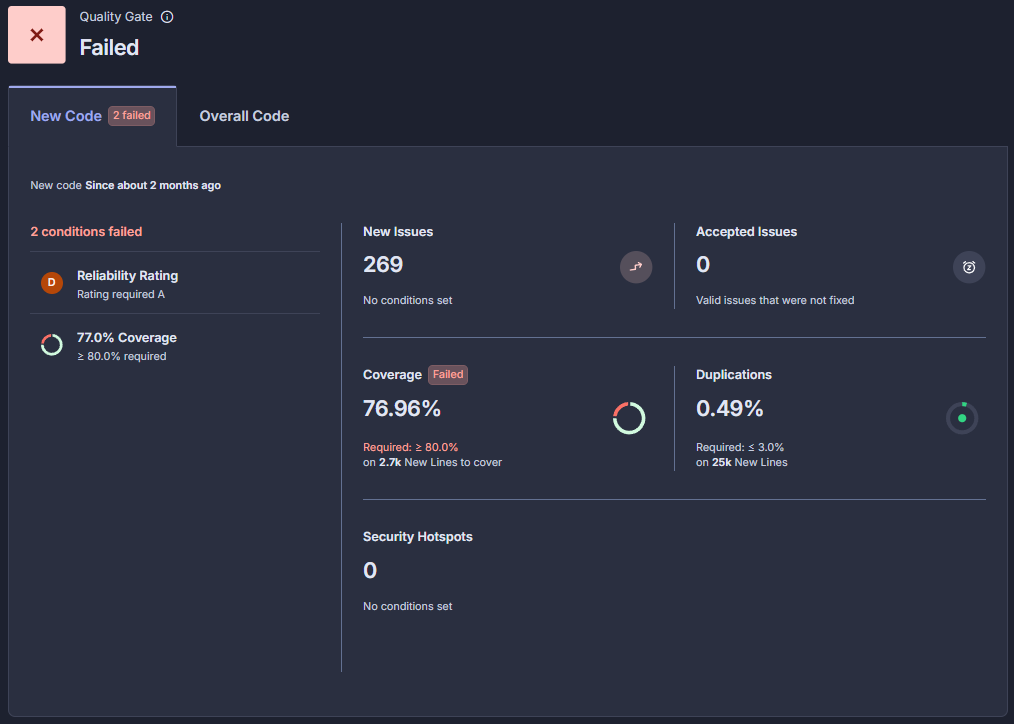
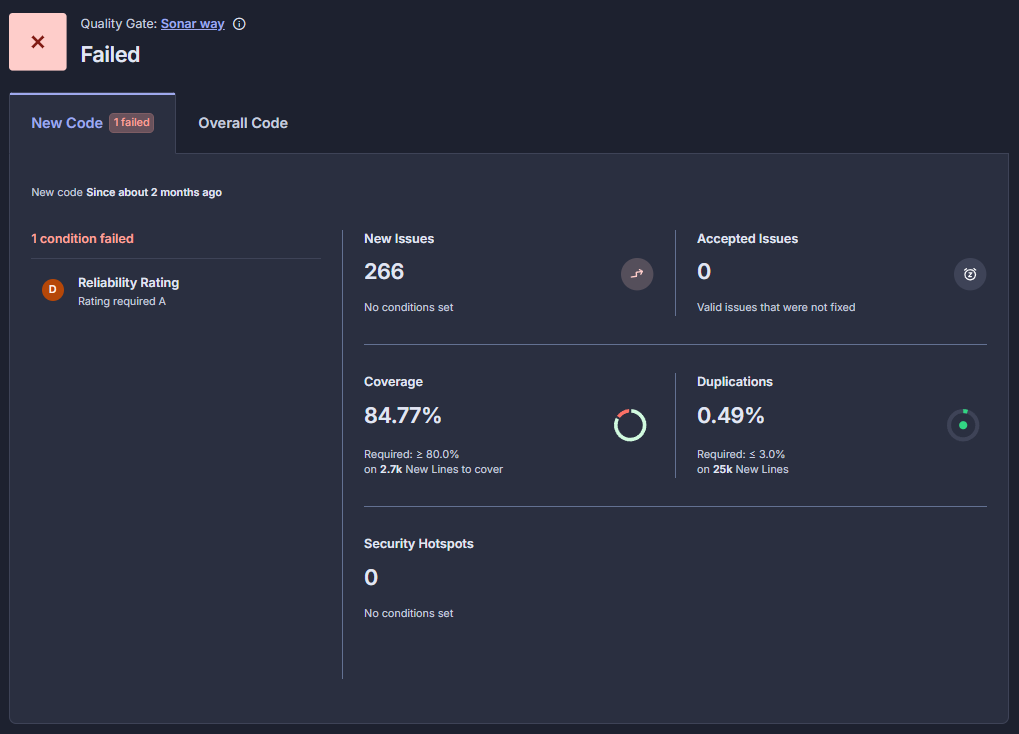
Add QR screenshots and update docs & Sonar stats
Add new diagram and QR menu images, and update documentation to include QR scan/show sections. Update SonarQube screenshots and bump reported new-code coverage to 84.77%. Clarify Docker Desktop usage and local DB setup details (MongoDB credentials and MySQL/Mongo tooling), and tweak wording for MinIO certificate step in the development guide.

diff --git a/docs/pages/04-development-guide.md b/docs/pages/04-development-guide.md
@@ -249,7 +249,7 @@ The platform's reliability is validated through multiple automated testing layer
 Overall project code quality, vulnerabilities, and test coverage are continuously monitored using **SonarQube Cloud**, which integrates with **JaCoCo** and **Istanbul** plugins to measure precise coverage indexes. Analyzing the current project state provides a transparent view of the architecture's evolution and the management of technical debt.
 
 **Overall Project Health:**
-As reflected in the dashboard, the project maintains an excellent **duplication rate of 0.49%**, well below the 3.0% threshold. The coverage on new code has reached **76.96%**, showing steady progress towards the strict 80% target. While the Quality Gate currently shows a **Reliability Rating of D**, this is driven by localized complexities in highly reactive services and infrastructure integrations, rather than structural flaws.
+As reflected in the dashboard, the project maintains an excellent **duplication rate of 0.49%**, well below the 3.0% threshold. The coverage on new code has reached **84.77%**, successfully exceeding the strict 80.0% target. While the Quality Gate currently shows a **Reliability Rating of D**, this is driven by localized complexities in highly reactive services and infrastructure integrations, rather than structural flaws.
 
 ![SonarQube Overall Analysis](../images/v0.2/sonarqube_overall.png)
 
@@ -261,8 +261,6 @@ The bubble chart below correlates **Technical Debt** (X-axis) with **Code Covera
 * **`create-edit-shop.component.ts`:** Positioned along the diagonal intersection (at roughly 60% coverage and 20 minutes of technical debt), this outlier reflects the architectural weight of the frontend. Built as an Angular 19 standalone component leveraging signals, it combines advanced RxJS asynchronous streams for reverse geocoding with direct DOM manipulation via the Leaflet map library. The minimal technical debt registered is largely due to the necessary lifecycle workarounds (like `setTimeout`) needed to synchronize the reactive state with the external map rendering engine.
 
 ![SonarQube Code Analysis](../images/v0.2/sonarqube_code.png)
-
-&nbsp;
 
 
 
@@ -402,9 +400,9 @@ In order to be able to run this project locally, ensure you have the following t
 - **Angular CLI**
 - **Java JDK** (version compatible with your Spring Boot setup)
 - **Maven** (optional, as the repository includes the Maven Wrapper)
-- **Docker** (for deploying the MinIO object storage container)
-- **MySQL Server & MySQL Workbench** (for local SQL database management)
-- **MongoDB & MongoDB Compass** (for local noSQL database management)
+- **Docker Desktop** (for deploying MinIO, MySQL and MongoDB containers)
+- **MySQL Workbench** (for local SQL database management)
+- **MongoDB Compass** (for local noSQL database management)
 
 &nbsp;
 
@@ -422,8 +420,7 @@ cd Frict
 
 
 **2. Set up the MySQL relational database**
-The application requires a relational database to store its data. We will use Docker Desktop to easily create an instance:
-1. Open a new terminal (requires adding Docker to PATH) or open **Docker Desktop** and, in its integrated terminal, run the following command:
+The application requires a relational database to store its data. We will use Docker Desktop to easily create an instance by opening a new terminal (requires adding Docker to PATH), or opening **Docker Desktop** and running the following command in its integrated terminal:
 ```bash
 docker run -d --name mysql-frict \
   -p 3306:3306 \
@@ -455,12 +452,12 @@ chmod 400 /data/keyfile && chown 999:999 /data/keyfile && exec
 # Wait few seconds until container had started completely, and then run:
 docker exec mongodb-frict mongosh --username user --password password --authenticationDatabase admin --eval "rs.initiate({_id:'rs0',members:[{_id:0,host:'127.0.0.1:27017'}]})"
 ```
-This will create a new container in Docker Desktop that will act as a dedicated noSQL DB. To explore its schema, we can create a new connection in MongoDB Compass, using the data that we provided to Docker for its creation (port 27017, username "admin" and password "password123").
+This will create a new container in Docker Desktop that will act as a dedicated noSQL DB. To explore its schema, we can create a new connection in MongoDB Compass, using the data that we provided to Docker for its creation (port 27017, username "user" and password "password").
 
 **4. Deploy the MinIO Object Storage**
 The system uses MinIO for handling image uploads. Spin up a local container using Docker:
 ```bash
-# Create self-signed certificates to serve images via HTTPS (if not exists)
+# Create self-signed certificates to serve images via HTTPS (if they do not exist)
 docker run --rm `
   -v "C:\...\2025-Frict\docker\minio_https\certs:/certs" `
   alpine/openssl req -x509 -nodes -days 365 -newkey rsa:2048 `
@@ -619,7 +616,7 @@ docker stop mongodb-fricttest
 cd backend
 
 # Run all server tests
-./mvnw test
+./mvnw verify
 ```
 > ℹ️ **NOTE:** End-to-End (E2E) tests, such as `ProductWebE2ETest`, automate real browser interactions. Therefore, the Angular frontend development server using test Angular proxy (`ng serve -configuration testing`) must be running in a separate terminal before executing the backend tests for them to complete successfully.
 

diff --git a/docs/pages/01-management-subsystem.md b/docs/pages/01-management-subsystem.md
@@ -205,3 +205,12 @@ Handle pickups and deliveries at destination, including customer reference code 
 ![Order Delivery Page](/docs/images/v0.2/order-delivery.png)
 
 &nbsp;
+
+
+**Scan QR Menu**
+
+Scan customers QR codes to confirm that they have recieved their order. Once scanned, orders will be marked as completed automatically.
+
+![Scan QR Menu](/docs/images/v0.2/scan-qr-menu.png)
+
+&nbsp;

diff --git a/docs/pages/01-shop-subsystem.md b/docs/pages/01-shop-subsystem.md
@@ -99,6 +99,15 @@ Maintain detailed tracking of your order status and any updates provided by mana
 &nbsp;
 
 
+**Show QR Menu**
+
+Shows the confirmation QR code for the selected order. After being scanned by the assigned delivery driver, the order will be marked as completed.
+
+![Show QR Menu](/docs/images/v0.2/show-qr-menu.png)
+
+&nbsp;
+
+
 **Error Page**
 
 Review the error details and restart the loading process to resolve the issue.